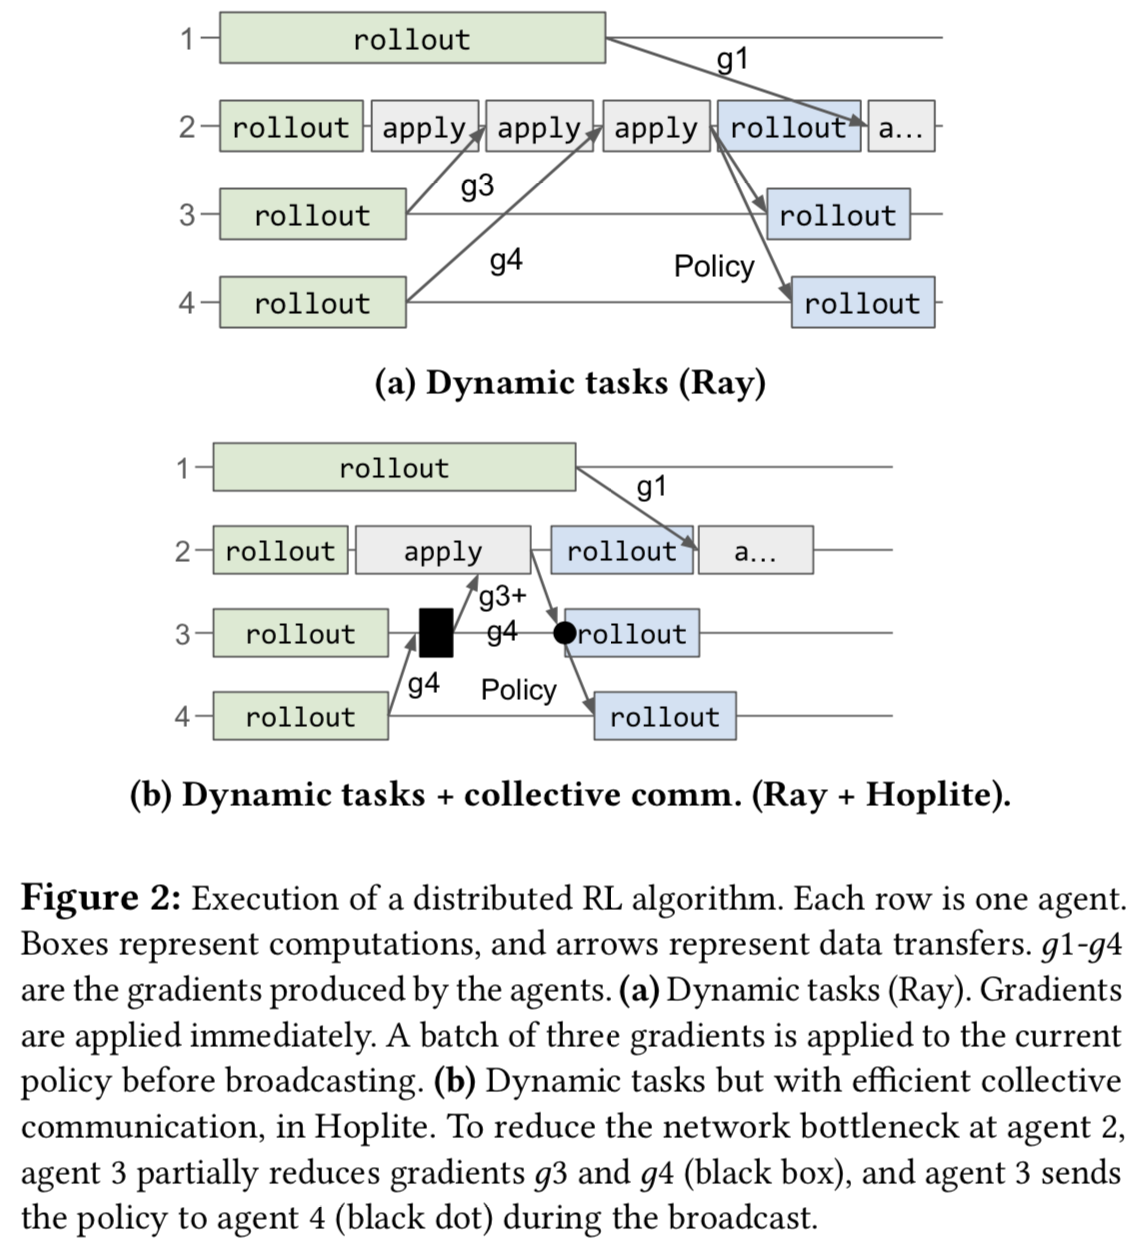
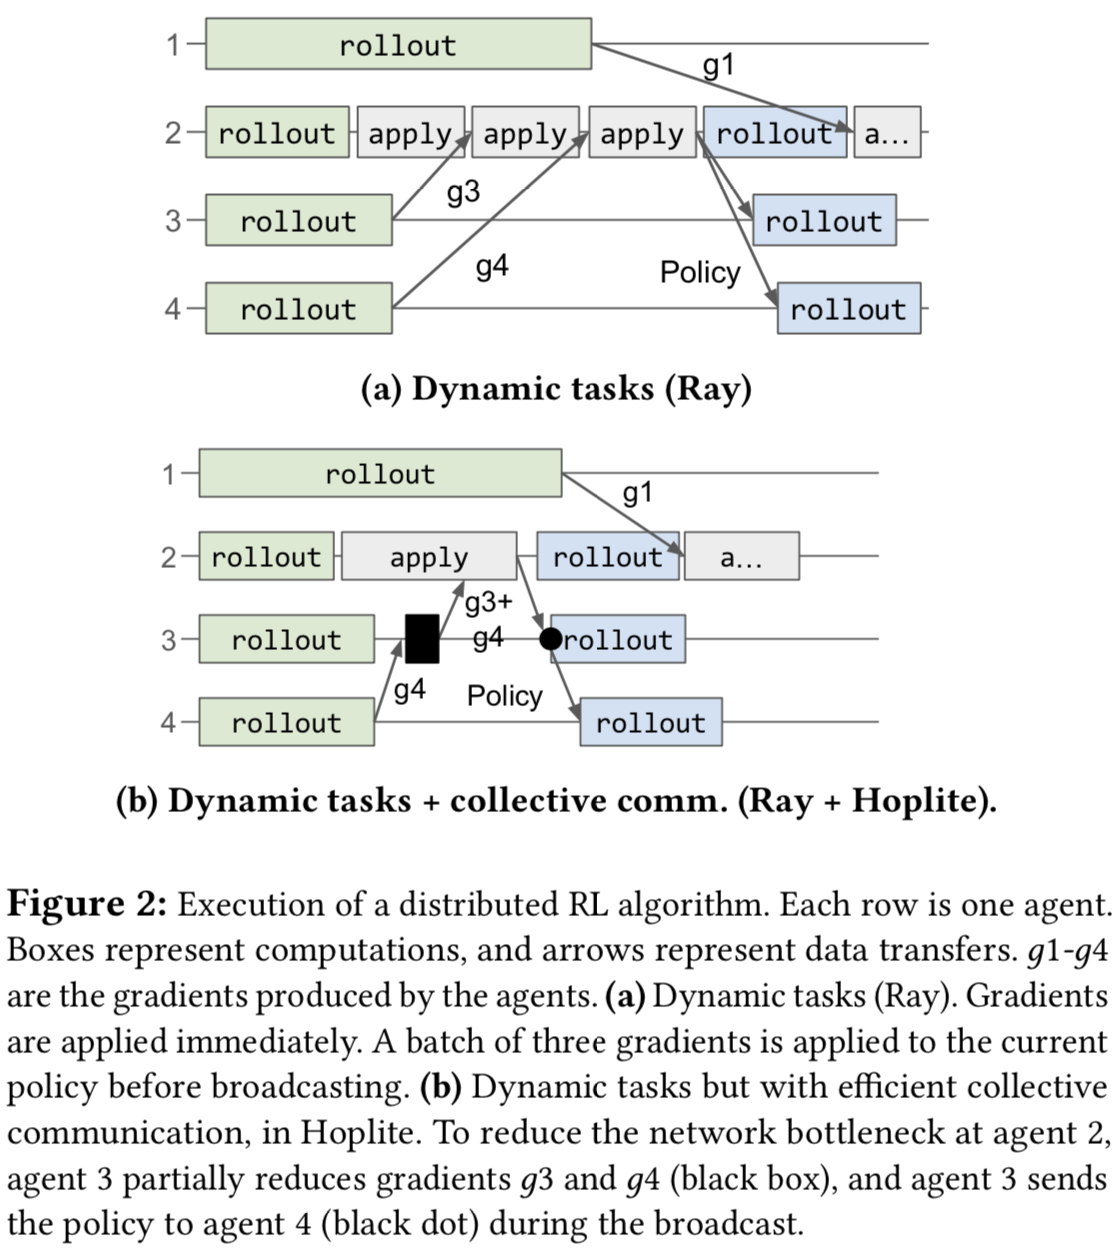
update

Changed region(s): [[0.0914, 0.0, 0.853, 0.6731], [0.0, 0.7037, 1.0, 1.0], [0.7616, 0.6119, 0.8835, 0.6731]]

diff --git a/_posts/2021-11-20-Hoplite-SIGCOMM-2021.md b/_posts/2021-11-20-Hoplite-SIGCOMM-2021.md
@@ -16,7 +16,7 @@ tags:
   
   asynchronous and dynamic computation
 
-  <img width="450" height="700" src="/img/post-rocc-1.png"/>
+  <img width="450" height="700" src="/img/post-hoplite-1.png"/>
 
 
 - Collective Communications
